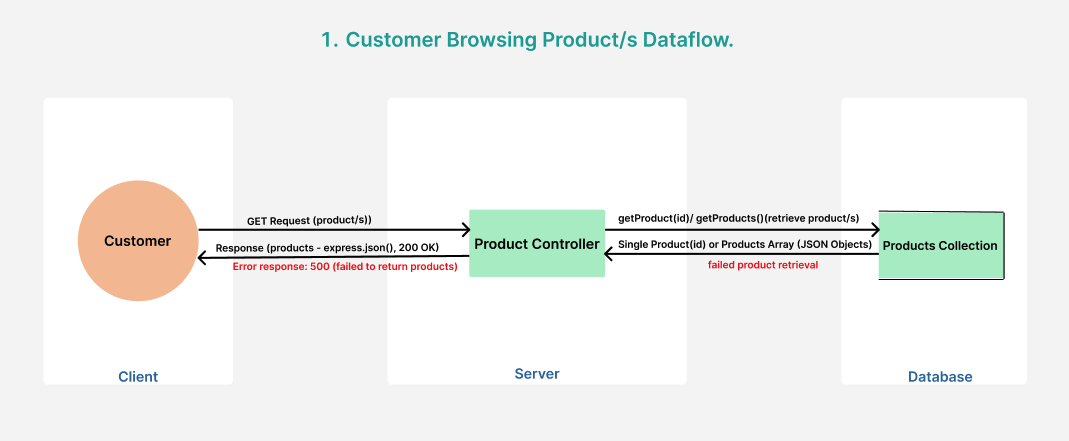
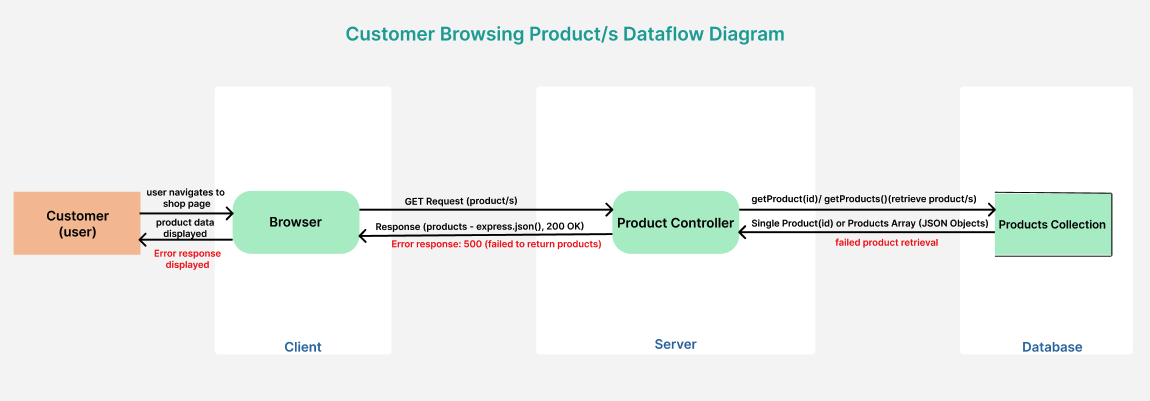
updated dataflow diagrams

diff --git a/README.md b/README.md
@@ -77,128 +77,144 @@
 
 ## R2. Dataflow Diagram
 
+### Dataflow Diagram (DFD) Legend
+
+![Legend For Dataflow Diagram](./docs/dfd-legend.png)  
+
+### Dataflow Diagram Legend - Explained  
+- **Entity** (Rectangle): represents users or external systems interacting within my application.  
+- **Process** (Rounded Rectangle): shows how data is processed, such as; handling a request or updating an order.
+- **Data Store** (Open Rectangle): is where information is stored, such as products, orders, or user (seller - admin) details in the database.  
+- **Data Flow** (Arrow): represents how data moves between different parts of the application.  
+- **Error Response** (Red Text): illustrates an error, that is; when something goes wrong, like a failed order creation or login request.
+
+  
+1. Customer Browsing Product/s Dataflow Diagram  
 ![Customer Browsing Product/s Dataflow Diagram](./docs/customer-browsing-dataflow.png)
 
-### Customer Browsing Product/s Dataflow Diagram - Explained
+### Customer Browsing Product/s Dataflow Diagram - Explained  
+
+- Customer Navigates to the Shop Page
+The customer opens their web browser and navigates to the Shop Page the website, initiating the process of browsing products. This action triggers the frontend to request product data from the backend.
 
 - Customer Sends a GET Request  
-The customer uses the web browser (client) to send a GET request to the server to retrieve product information. This request is sent via an API endpoint such as /api/products to fetch all available face paint kits or /api/products/:id to retrieve details about a specific product. The web client initiates this request whenever a customer visits the Shop Page to display all products or clicks on a specific item to view its details.
+Once on the Shop Page, the web browser (client) automatically sends a GET request to the server to retrieve product information. This request is made through an API endpoint such as `/api/products` to fetch all available face paint kits, or `/api/products/:id` to retrieve details about a specific product. The request is initiated whenever a customer visits the Shop Page or selects a specific product for more details.
 
 - Product Controller Receives the Request  
 The server receives the GET request and processes it through the Product Controller. The controller determines whether the request is for all products or a specific product based on the API endpoint. It then calls the appropriate function (`getProducts()` or `getProduct(id)`) to retrieve the required data.  
 
 - Product Controller Queries the Database  
-The Product Controller queries the Products Collection in the database. If the request is for all products, it executes the `getProducts()` function to retrieve the full list of available kits. If the request is for a specific product, it calls the `getProduct(id)` function, using the provided product ID to fetch the corresponding product details. The query ensures that the appropriate data is retrieved based on the request type.  
+The Product Controller queries the Products Collection in the database. If the request is for all products, it executes the `getProducts()` function to retrieve the full list of available kits. If the request is for a specific product, it calls the `getProduct(id)` function, using the provided product ID to fetch the corresponding product details.
 
 - Database (Products Collection) Returns Data  
 The database processes the query and returns the relevant data to the Product Controller. If the request was for all available products, it returns a JSON array containing all products. If the request included a specific product ID, it returns a JSON object with the details of that product. This ensures that the correct product information is retrieved and sent back to the controller for further processing.
 
 - Product Controller Sends a Response to the Client
-The Product Controller formats the retrieved data into a structured JSON response using express.json(), ensuring it is properly structured for the frontend. It then sends the response back to the client (browser). If the query was successful, the server returns a `200 OK` status code along with either an array of all products or a single product object, depending on the request. This allows the frontend to display the relevant product information accordingly.
+The Product Controller formats the retrieved data into a structured JSON response using express.json() and sends it back to the web browser (client). If the request is successful, the response includes a 200 OK status and the requested product data. The frontend then processes this data and updates the Shop Page accordingly, displaying all products or the selected product’s details.  
+
+- Product Data Displayed to the Customer  
+Once the browser receives the product data, it dynamically updates the Shop Page to display the available products or the details of a selected product. The customer can now browse products, and/or view product descriptions.
 
 - Error Handling in Product Retrieval  
-If an issue occurs during the database query, such as an invalid product ID or a database connection error, the Product Controller catches the error. It then sends an appropriate error response to the client, typically returning a 500 Internal Server Error status along with a message indicating the failure to retrieve the product data. This ensures that the frontend is informed of the issue and can handle it accordingly.
+If an error occurs during the request (eg; an invalid product ID or database connection failure), the Product Controller catches the error and sends an error response back to the client. This response typically includes a 500 Internal Server Error status along with an error message. The frontend then displays an error message to the customer, informing them that the product data could not be retrieved.  
 
+1. Seller Login Dataflow Diagram  
 ![Seller Login Dataflow Diagram](./docs/seller-login-dataflow.png)  
 
 ### Seller Login Dataflow Diagram - Explained  
 
+- Seller Navigates to the Login Page  
+The seller (admin) opens their web browser and navigates to the login portal. This page contains a form where they enter their email and password to gain access to the admin dashboard.
+
 - Seller Sends a POST Request  
-When the seller (admin) accesses their dedicated login portal page to manage the website, they enter their email and password into the login form there and submit it. This action triggers a POST request from the web browser (client) to the server, specifically targeting the API endpoint `/api/seller/login`. The request carries the seller's credentials in the request body and is routed to the Seller Controller, which processes the login request.
+When the seller submits their login details, the web browser (client) sends a POST request to the server via the API endpoint `/api/seller/login`. This request contains the seller’s email and password in the request body. The request is then routed to the Seller Controller, which is responsible for processing the login attempt.
 
 - Seller Controller Receives the Request  
 The Seller Controller receives the POST request and processes the submitted login details (email & password). It extracts these credentials from the request body and calls the `verifySeller()` function, which is responsible for validating the provided details against the stored admin credentials stored in the database.
 
 - Seller Controller Queries the Database  
-The Seller Controller uses the `verifySeller()` function to query the database, specifically searching the Sellers Collection for a document that matches the provided email. If a matching seller account is found, the stored hashed password is retrieved and compared to the submitted password using bcrypt. If the credentials are valid, the seller is successfully logged in. If the email or password is incorrect, an error response is sent, and access is prevented.
+The `verifySeller()` function queries the database (Sellers Collection) to check for a seller account with the provided email. If a matching email is found, the system retrieves the stored hashed password for comparison using bcrypt. If the credentials match, the seller is authenticated. If the email does not exist or the password is incorrect, an error response is sent back to the client, denying access.
 
 - Database (Sellers Collection) Returns Data  
-If the login details submitted are correct, the database confirms the seller’s identity and returns their details to the Seller Controller. This response includes the seller's ID and email, which are used to generate a JWT token for authenticating and authorising the seller when accessing protected endpoints on the platform.
+If the login details submitted are correct, the database confirms the seller’s identity and returns relevant details, such as the seller's ID and email, to the Seller Controller. These details are used to generate a JWT token, which will be required for authentication when accessing protected parts (routes) of the website.
 
 - Seller Controller Generates a JWT
-The Seller Controller generates a JWT (JSON Web Token) using the seller’s ID, email, and a timestamp. The token also has an expiration time to ensure security. This token allows the seller to stay logged in and access protected parts of the website, like viewing orders.
+The Seller Controller generates a JSON Web Token (JWT) using the seller’s ID and email. The token is configured with an expiration time for security. This token will be sent back to the client, allowing the seller to remain authenticated for the session and to access admin-only routes.
 
 - Seller Controller Sends a Response to the Client 
-If the login is successful, the Seller Controller sends back a JWT token with a `200 OK` status, allowing the seller to stay logged in and access protected routes of the site. If the login fails because the email or password was incorrect, the Seller Controller then returns a `401 Unauthorized` error, letting the seller know their login attempt failed.  
+If the login is successful, the Seller Controller sends back a JWT token along with a 200 OK status, enabling the seller to access the admin dashboard. The frontend then stores the token and redirects the seller to their dashboard. If the login attempt fails due to incorrect credentials, the Seller Controller sends a 401 Unauthorised response, and the frontend displays an error message to the user (Seller) informing them of the failed login attempt.     
 
+1. Seller Viewing Orders Dataflow Diagram  
 ![Seller Viewing Orders Dataflow Diagram](./docs/seller-orders-dataflow.png)  
 
 ### Seller Viewing Orders Dataflow Diagram - Explained  
 
+- Seller Navigates to the Orders Page  
+The seller (admin) logs into their dashboard and navigates to the Orders Page. This page allows them to view all customer orders at a glance, with order numbers, statuses, total prices, dates, and customer names. They can also click on an order number to view more details about a specific order.
+
 - Seller Sends a GET Request  
-The seller uses the web browser (client) to send a GET request to the server to retrieve order information. This request is sent via an API endpoint such as `/api/orders` to fetch all customer orders or `/api/orders/:id` to retrieve details about a specific order. The web client initiates this request whenever the seller accesses the Orders Page in their dashboard to view all orders or clicks on a specific order number to see its full details.
+When the seller accesses the Orders Page, the browser (client) sends a GET request to the server to retrieve the order data. This request is sent via the API endpoint `/api/orders` to fetch all orders or `/api/orders/:id` to retrieve a single order's details. The request is initiated automatically when the Orders Page loads or when the seller clicks on a specific order number.
 
 -  Order Controller Receives the Request  
-The Order Controller receives the GET request and processes it accordingly. If the request is for all orders, it calls the `getOrders()` function to retrieve all existing orders from the Orders Collection in the database. If the request is for a specific order, it calls the `getOrderById(id)` function to retrieve details for that particular order.
+The Order Controller receives the GET request and determines whether to fetch all orders or a single order based on the API endpoint. If the request is for all orders, it calls the `getOrders()` function. If the request is for a specific order, it calls the `getOrderById(id)` function, passing the requested order ID.
 
 - Order Controller Queries the Database  
-The Order Controller, through the `getOrders()` function, queries the Orders Collection in the database. The database processes this query and returns all stored order records, including order numbers, statuses, total prices, and customer names. If a specific order is requested, the controller calls `getOrderById(id)`, and the database responds with the corresponding order details, including the customer's shipping information and a breakdown of the ordered products, their quantities, and individual prices.
+The `getOrders()` function queries the database (Orders Collection) to retrieve all stored order records, including order numbers, statuses, total prices, dates, and customer names. If a specific order is requested, the `getOrderById(id)` function filters the query to return only the details of that particular order, including shipping details, the ordered products, their quantities, and individual prices.
 
 - Database (Orders Collection) Returns Data  
-The database processes the query and responds to the Order Controller with the requested order data. For all orders, it returns a JSON array containing order records with just the essential details. For a specific order, it returns a JSON object with the complete order information, including the customer's shipping details and a detailed breakdown of their purchased items.
+The database processes the request and sends back the relevant data to the Order Controller. If the request is for all orders, it returns a JSON array with all stored orders and their basic details. If the request is for a single order, it returns a JSON object containing the full details of that order, including the customer's shipping information and order summary.
 
 - Seller Controller Sends a Response to the Client 
-If the request is successful, the Order Controller formats the retrieved data using express.json() and sends it back to the Seller (Client) with a `200 OK` status code. The response contains either a list of all customer orders or details of a specific order, depending on the request. If the query fails (eg; due to a database connection issue), the Order Controller returns a 500 Internal Server Error response, along with an error message indicating the failure.  
+If the request is successful, the Order Controller formats the retrieved order data using express.json() and sends it back to the client with a 200 OK status. The response contains either a list of all orders or a detailed view of a specific order. If the request fails due to a database error or invalid query, the Order Controller returns a 500 Internal Server Error, and the frontend displays an error message to the user (Seller), informing them that the order data could not be retrieved. 
 
-![Customer Browsing Video Tutorials Dataflow Diagram](./docs/customer-tutorials-dataflow.png)  
+1. Customer Browsing/Watching Video Tutorials Dataflow Diagram
+![Customer Browsing/Watching Video Tutorials Dataflow Diagram](./docs/customer-tutorials-dataflow.png)  
 
 ### Customer Browsing Video Tutorials Dataflow Diagram - Explained  
 
+- Customer Navigates to the Tutorials Page  
+The Tutorials Controller receives the GET request and processes it. It calls the `getTutorials()` function, which is responsible for retrieving all stored video tutorials (URLs) from the database (Tutorials Collection).  
+
 - Customer Sends a GET Request  
-The customer uses the web browser (client) to send a GET request to retrieve all available face paint video tutorials from the website. This request is sent via the API endpoint `/api/tutorials`. The request is initiated when the customer navigates to the "Tutorials" page, prompting the server to fetch and return the list of video tutorials stored in the database.
+When the customer lands on the Tutorials page, the browser (client) automatically sends a GET request to retrieve the available video tutorials. This request is sent to the server via the API endpoint `/api/tutorials`. The request prompts the server to fetch and return the list of video tutorials (URLs) stored in the database.
 
 -  Tutorials Controller Receives the Request  
 The Tutorials Controller receives the GET request and processes it. It calls the `getTutorials()` function, which is responsible for retrieving the list of stored video tutorials from the database (Tutorials Collection).
 
 - Tutorials Controller Queries the Database  
-The Tutorials Controller uses the `getTutorials()` function to query the Tutorials Collection in the database. This query retrieves all video tutorial records (documents), which store the video information, including YouTube URLs, and video titles.
+The `getTutorials()` function queries the database (Tutorials Collection) to retrieve all the stored video tutorial records. Each record contains metadata such as the video title and a YouTube URL, which will be used to embed the video on the website.
 
 - Database (Tutorials Collection) Returns Data  
-The database processes the query and sends the result back to the Tutorials Controller. The response is returned as a JSON array, containing all stored video tutorials with relevant details such as; the video title, and YouTube URL.
+The database processes the query and responds with a JSON array containing the list of video tutorials, including their titles and YouTube URLs. If an error occurs (eg; a failed database connection), an error response is sent back to the controller instead.
 
 - Tutorials Controller Sends a Response to the Client 
-If the request is successful, the Tutorials Controller formats the retrieved data using express.json() and sends it to the client with a `200 OK` status code. The frontend then embeds the videos using iframes, allowing customers to watch them directly on the website. If the query fails (eg; invalid database connection or query issue), the Tutorials Controller sends a 500 Internal Server Error response to the customer with an error message indicating the failure.   
+If the request is successful, the Tutorials Controller formats the retrieved data using express.json() and sends it to the client with a 200 OK status code. The frontend uses the returned video URLs to embed the videos using iframes, allowing customers to watch them directly on the website. If the query fails due to a database issue, the Tutorials Controller returns a 500 Internal Server Error response, and the website displays an error message, informing the user (customer) that the videos could not be retrieved.  
 
-![Customer Managing Cart (Add/Update/Delete) Dataflow Diagram](./docs/customer-cart-dataflow.png)  
+- Customer Selects and Watches a Video  
+Once the video tutorials are displayed, the customer can click on a video to watch it. The browser fetches the video from YouTube via its URL, and YouTube streams the video directly to the client. If the video cannot load, an error message is displayed, preventing the video from being played.
 
-### Customer Managing Cart (Add/Update/Delete) Dataflow Diagram - Explained  
+1. Customer Updating Cart & Checking Out Order Dataflow Diagram
+![Customer Updating & Checking Out Order Dataflow Diagram](./docs/customer-checkout-dataflow.png)  
 
-- Customer Sends a GET/POST/PATCH/DELETE Request  
-The customer interacts with the shopping cart through the web browser (client), sending different requests depending on their actions. When a customer visits the Shopping Cart Page, a GET request is sent to `/api/cart` to retrieve and display the current items in their cart. If they decide to add a product to their cart, they can do so either from the Shop Page or the Product Details Page, which triggers a POST request to `/api/cart` with that products details. If they wish to update the quantity of an item (eg; changing from 1 to 2), a PATCH request is sent to `/api/cart/:id` with the updated quantity. Similarly, if they decide to remove an item (eg; setting the quantity to 0), a DELETE request is sent to `/api/cart/:id`, ensuring the product is removed before proceeding to checkout.
+### Customer Updating Cart & Checking Out Order Dataflow Diagram - Explained  
 
--  Cart Controller Receives the Request  
-The Cart Controller receives the request from the client and determines what operation is being performed based on the HTTP method (GET, POST, PATCH, or DELETE). If the request is a GET request, it calls the `getCart()` function to retrieve the customer's current cart. If the request is a POST request, it calls the `addToCart()` function to add a product to the cart. If the request is a PATCH request, it calls the `updateCart(id)` function to modify the quantity of a product in the cart. Lastly, if the request is a DELETE request, it calls the `deleteFromCart(id)` function to remove a product from the cart based on its ID.
-
-- Cart Controller Queries the Database 
-The Cart Controller then queries the database (Carts Collection) to carry out the requested operation. If the request is a GET request, the controller retrieves the customer's cart details from the database. If the request is a POST request, the controller inserts the new product into the customer's cart. If the request is a PATCH request, it modifies the quantity of a specific product in the cart. If the request is a DELETE request, the controller removes the specified product from the cart.
-
-- Database (Carts Collection) Returns Data 
-Once the query is processed, the database sends a response back to the Cart Controller. If the request was a GET, the database returns the cart details, including all products currently in the cart. If the request was a POST, the database confirms that the new product has been added. If the request was a PATCH, the database confirms that the quantity of the specified product has been updated. If the request was a DELETE, the database confirms that the product has been successfully removed from the cart. If an error occurs, such as an invalid product ID or a database connection failure, an error message is sent back to the Cart Controller.
-
-- Cart Controller Sends a Response to the Client 
-The Cart Controller processes the response received from the database and formats it using express.json(). If the operation was successful, the controller sends a `200 OK` status response back to the customer. For a GET request, the response contains the cart details. For a POST, PATCH, or DELETE request, the response contains a confirmation message such as "Product added to cart", "Cart updated successfully", or "Product removed from cart". If an error occurred, the Cart Controller sends an appropriate error response. A 400 Bad Request response is sent if the request contained invalid inputs, such as an incorrect product ID. A 500 Internal Server Error response is sent if a database issue prevented the operation from being completed successfully. 
-
-![Customer Checking Out Order Dataflow Diagram](./docs/customer-checkout-dataflow.png)  
-
-### Customer Checking Out Order Dataflow Diagram - Explained  
+- Cart is Updated in the Local Browser  
+As the customer shops, their selected products are stored in the frontend, either in React state or local storage. When they add, update, or remove items from the cart, these changes are reflected instantly on the website without requiring a request to the backend. The cart remains stored on the frontend until the customer proceeds to checkout.  
 
 - Customer Sends a POST Request  
-When the customer proceeds to checkout, they are redirected to the checkout page, where they enter their name and shipping address into a form. Their cart items are displayed on this page. Once they complete the form and press the "Submit Payment" button, a POST request is sent to the server via the API endpoint `/api/orders`. This request includes the customer’s name, shipping address, and the cart details (an array containing product IDs, quantities, & prices). The request will only be processed if all required fields are filled out.
+When the customer proceeds to checkout, they are redirected to the checkout page, where their cart items are displayed alongside a form to enter their name and shipping address. Once they complete the form and press the "Submit Payment" button, a POST request is sent to the server via the API endpoint `/api/orders`. This request includes the customer’s name, shipping address, and cart details (an array containing product IDs, quantities, and prices). The request is only processed if all required fields in the form are filled out.
 
 -  Order Controller Receives the Request  
-The Order Controller receives the POST request and begins processing the order. Since the order needs to include the most up-to-date cart details, the controller sends a request to the Cart Controller to retrieve the customer’s cart data.
-
-- Cart Controller Retrieves Cart Data  
-The Cart Controller processes the request by querying the database (Carts Collection) to fetch the customer’s cart. The database returns the list of products in the cart along with their quantities. If the cart retrieval is unsuccessful due to an empty cart or a database error, an error response is sent back, preventing the order from being created.
+The Order Controller receives the POST request and begins processing the order. Since the cart data is managed on the frontend, the controller processes the cart details directly from the request body. It verifies that the provided cart details, customer information, and shipping address are valid. If any required fields are missing or if the cart data is invalid (eg; no items are in the cart), an error will be returned, preventing order creation.
 
 - Order Controller Creates the Order  
-If the cart retrieval is successful, the Order Controller processes the order by calling the `createOrder()` function. This function generates a new order record (document) in the database (Orders Collection), which includes the customer’s name, shipping details, the list of ordered products, their quantities, the total price of the order, and a unique order number.
+If the request is valid, the Order Controller calls the `createOrder()` function, which generates a new order record in the database (Orders Collection). The order record includes the customer's name, shipping details, a list of ordered products with their quantities and prices, the total order price, and a unique order number.
 
 - Database Returns Data to the Order Controller
-The database (Orders Collection) processes the request and stores the new order. If the order creation is successful, the database sends back a confirmation message along with the newly created order number. If there is a database error, the system returns an error message instead.
+The database (Orders Collection) processes the request and stores the new order. If the order creation is successful, the database confirms the order has been stored and returns a success message along with the newly generated order number. If there is a database error, an error message will be returned instead.
 
 - Order Controller Sends a Response to the Client 
-If the order is successfully created, the Order Controller sends a response with a 201 Created status. The response includes a confirmation message informing the customer that their order was successful, along with the order number and shipping details. The checkout page updates to display this confirmation. If an error occurs at any stage, the Order Controller sends a 400 Bad Request response with an error message, and the checkout page informs the customer that the order could not be processed. 
+If the order is successfully created, the Order Controller sends a response with a 201 Created status. The response includes a confirmation message informing the customer that their order was successful, along with the order number and shipping details. The checkout page updates to display this confirmation. If an error occurs at any stage, the Order Controller sends a 400 Bad Request response with an error message, and the checkout page informs the customer that the order could not be processed.
 
 
 
